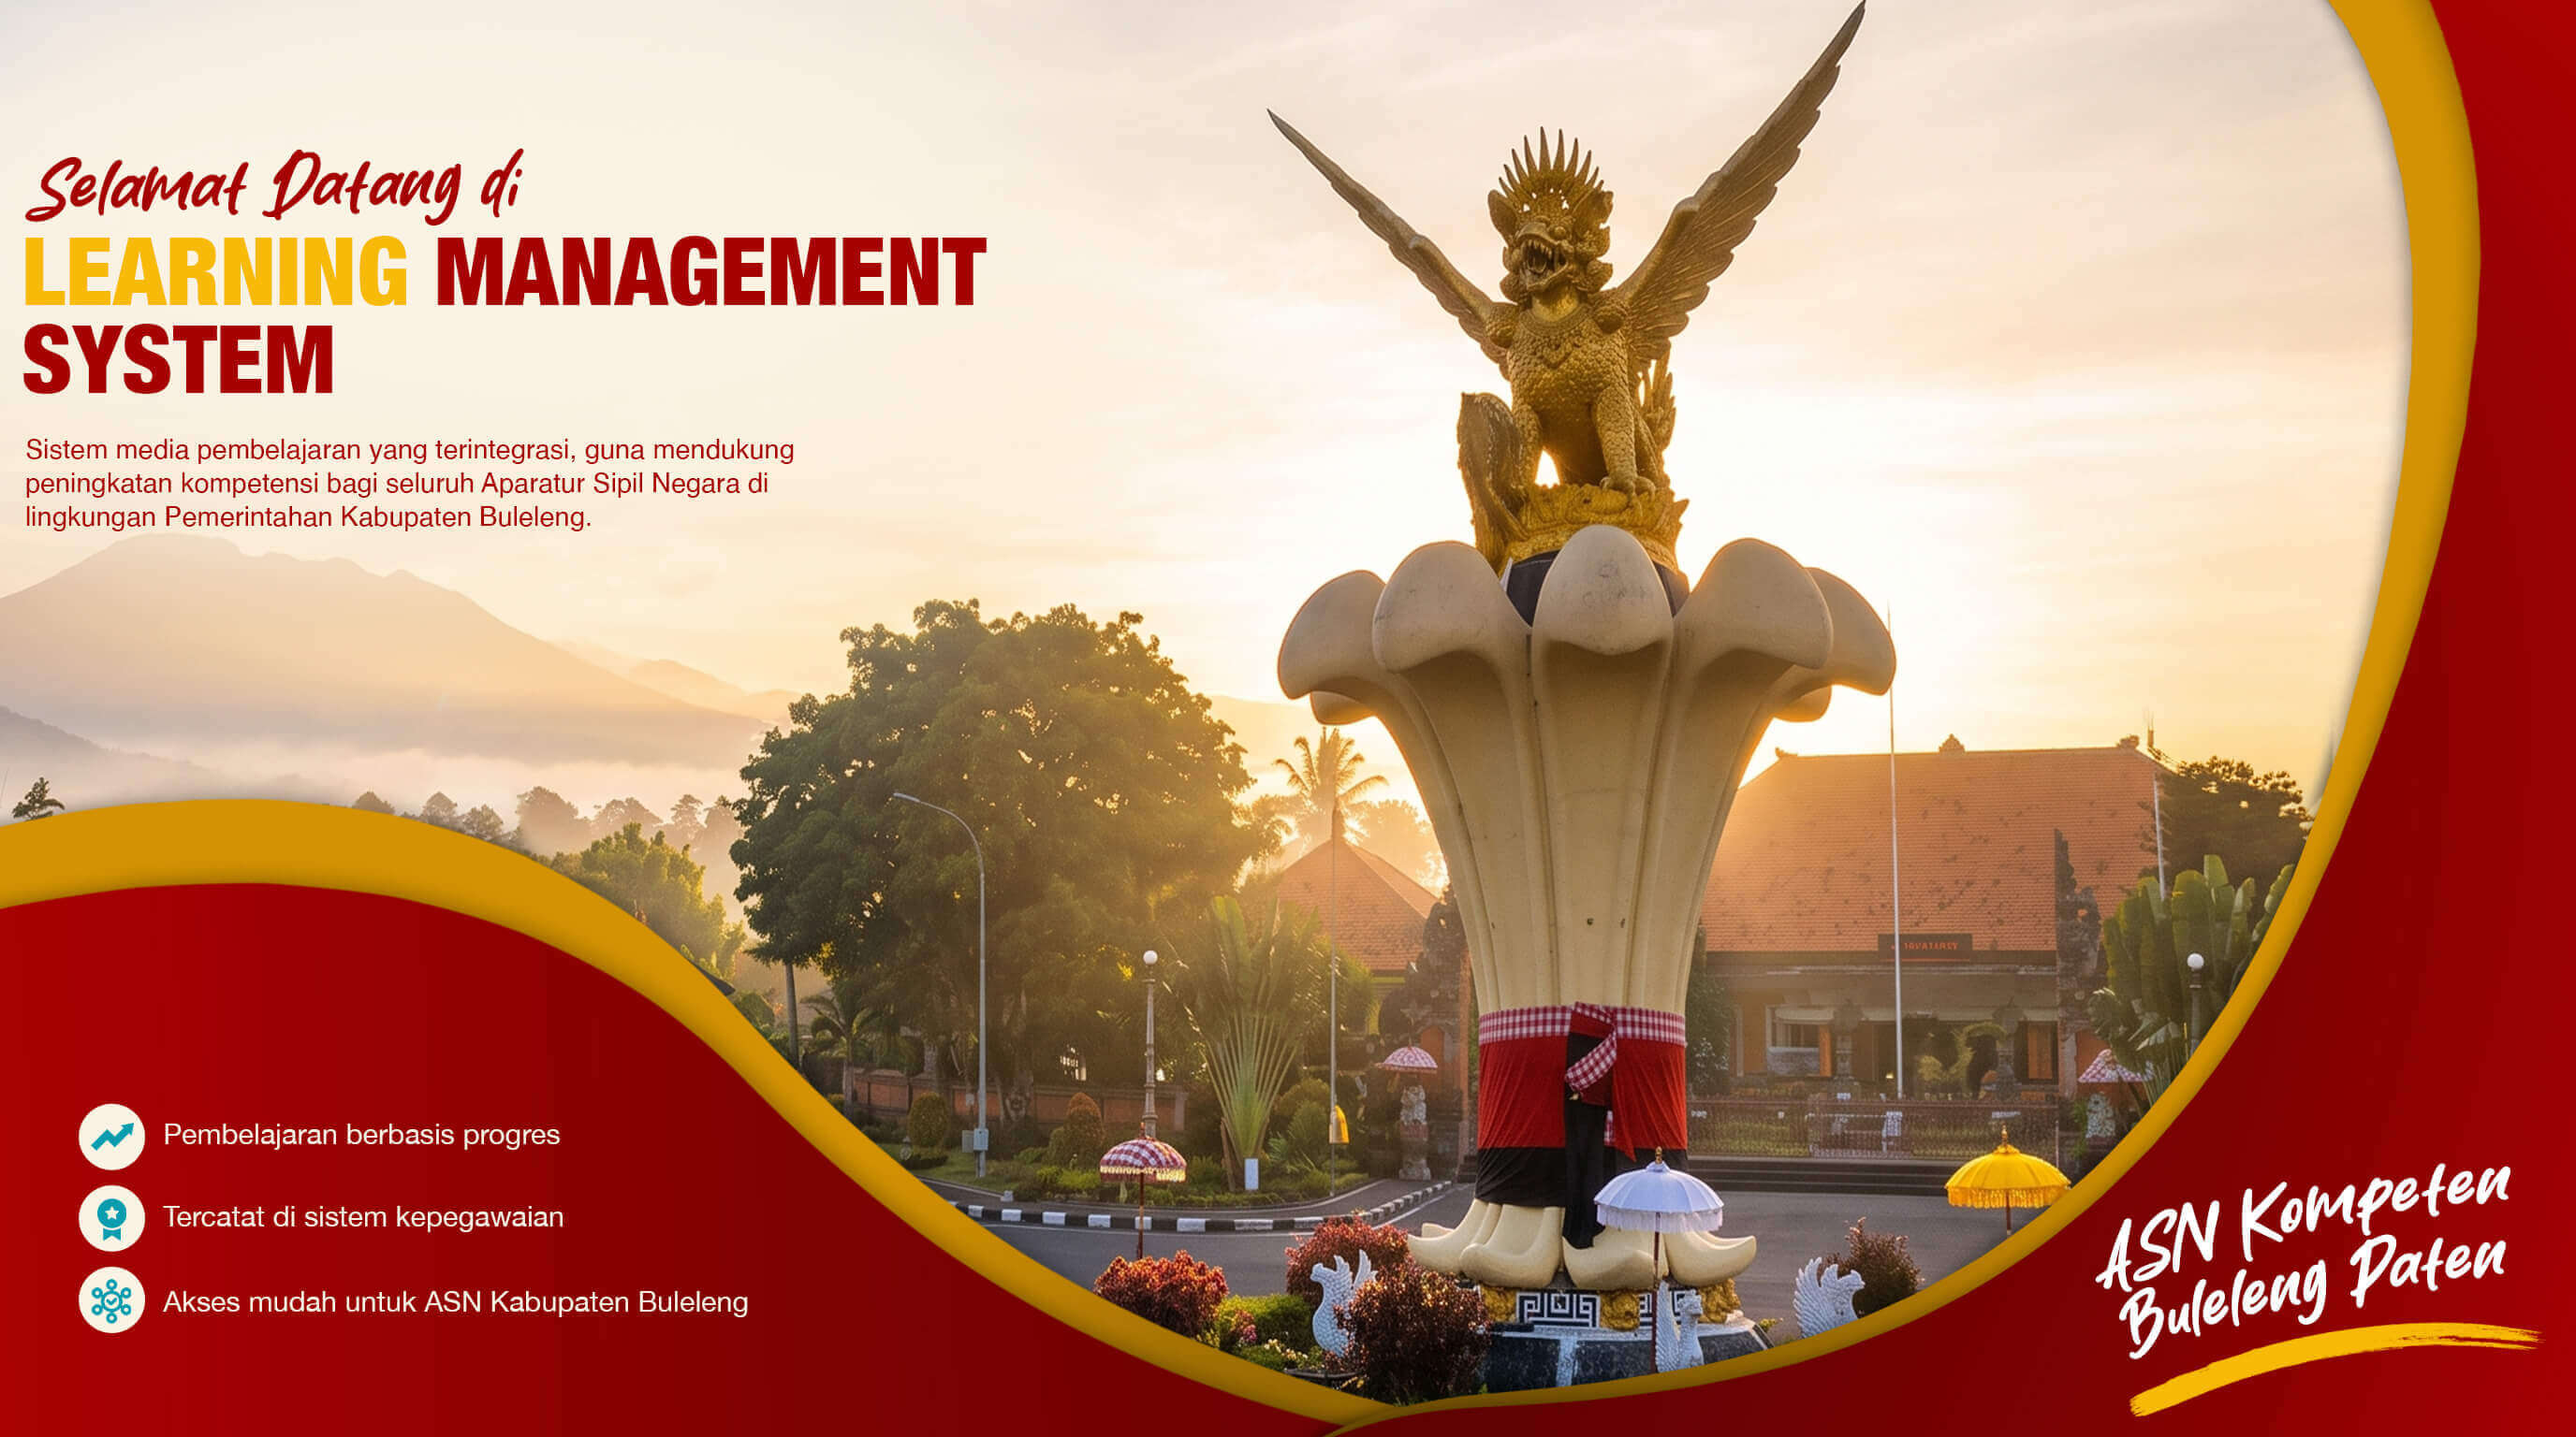
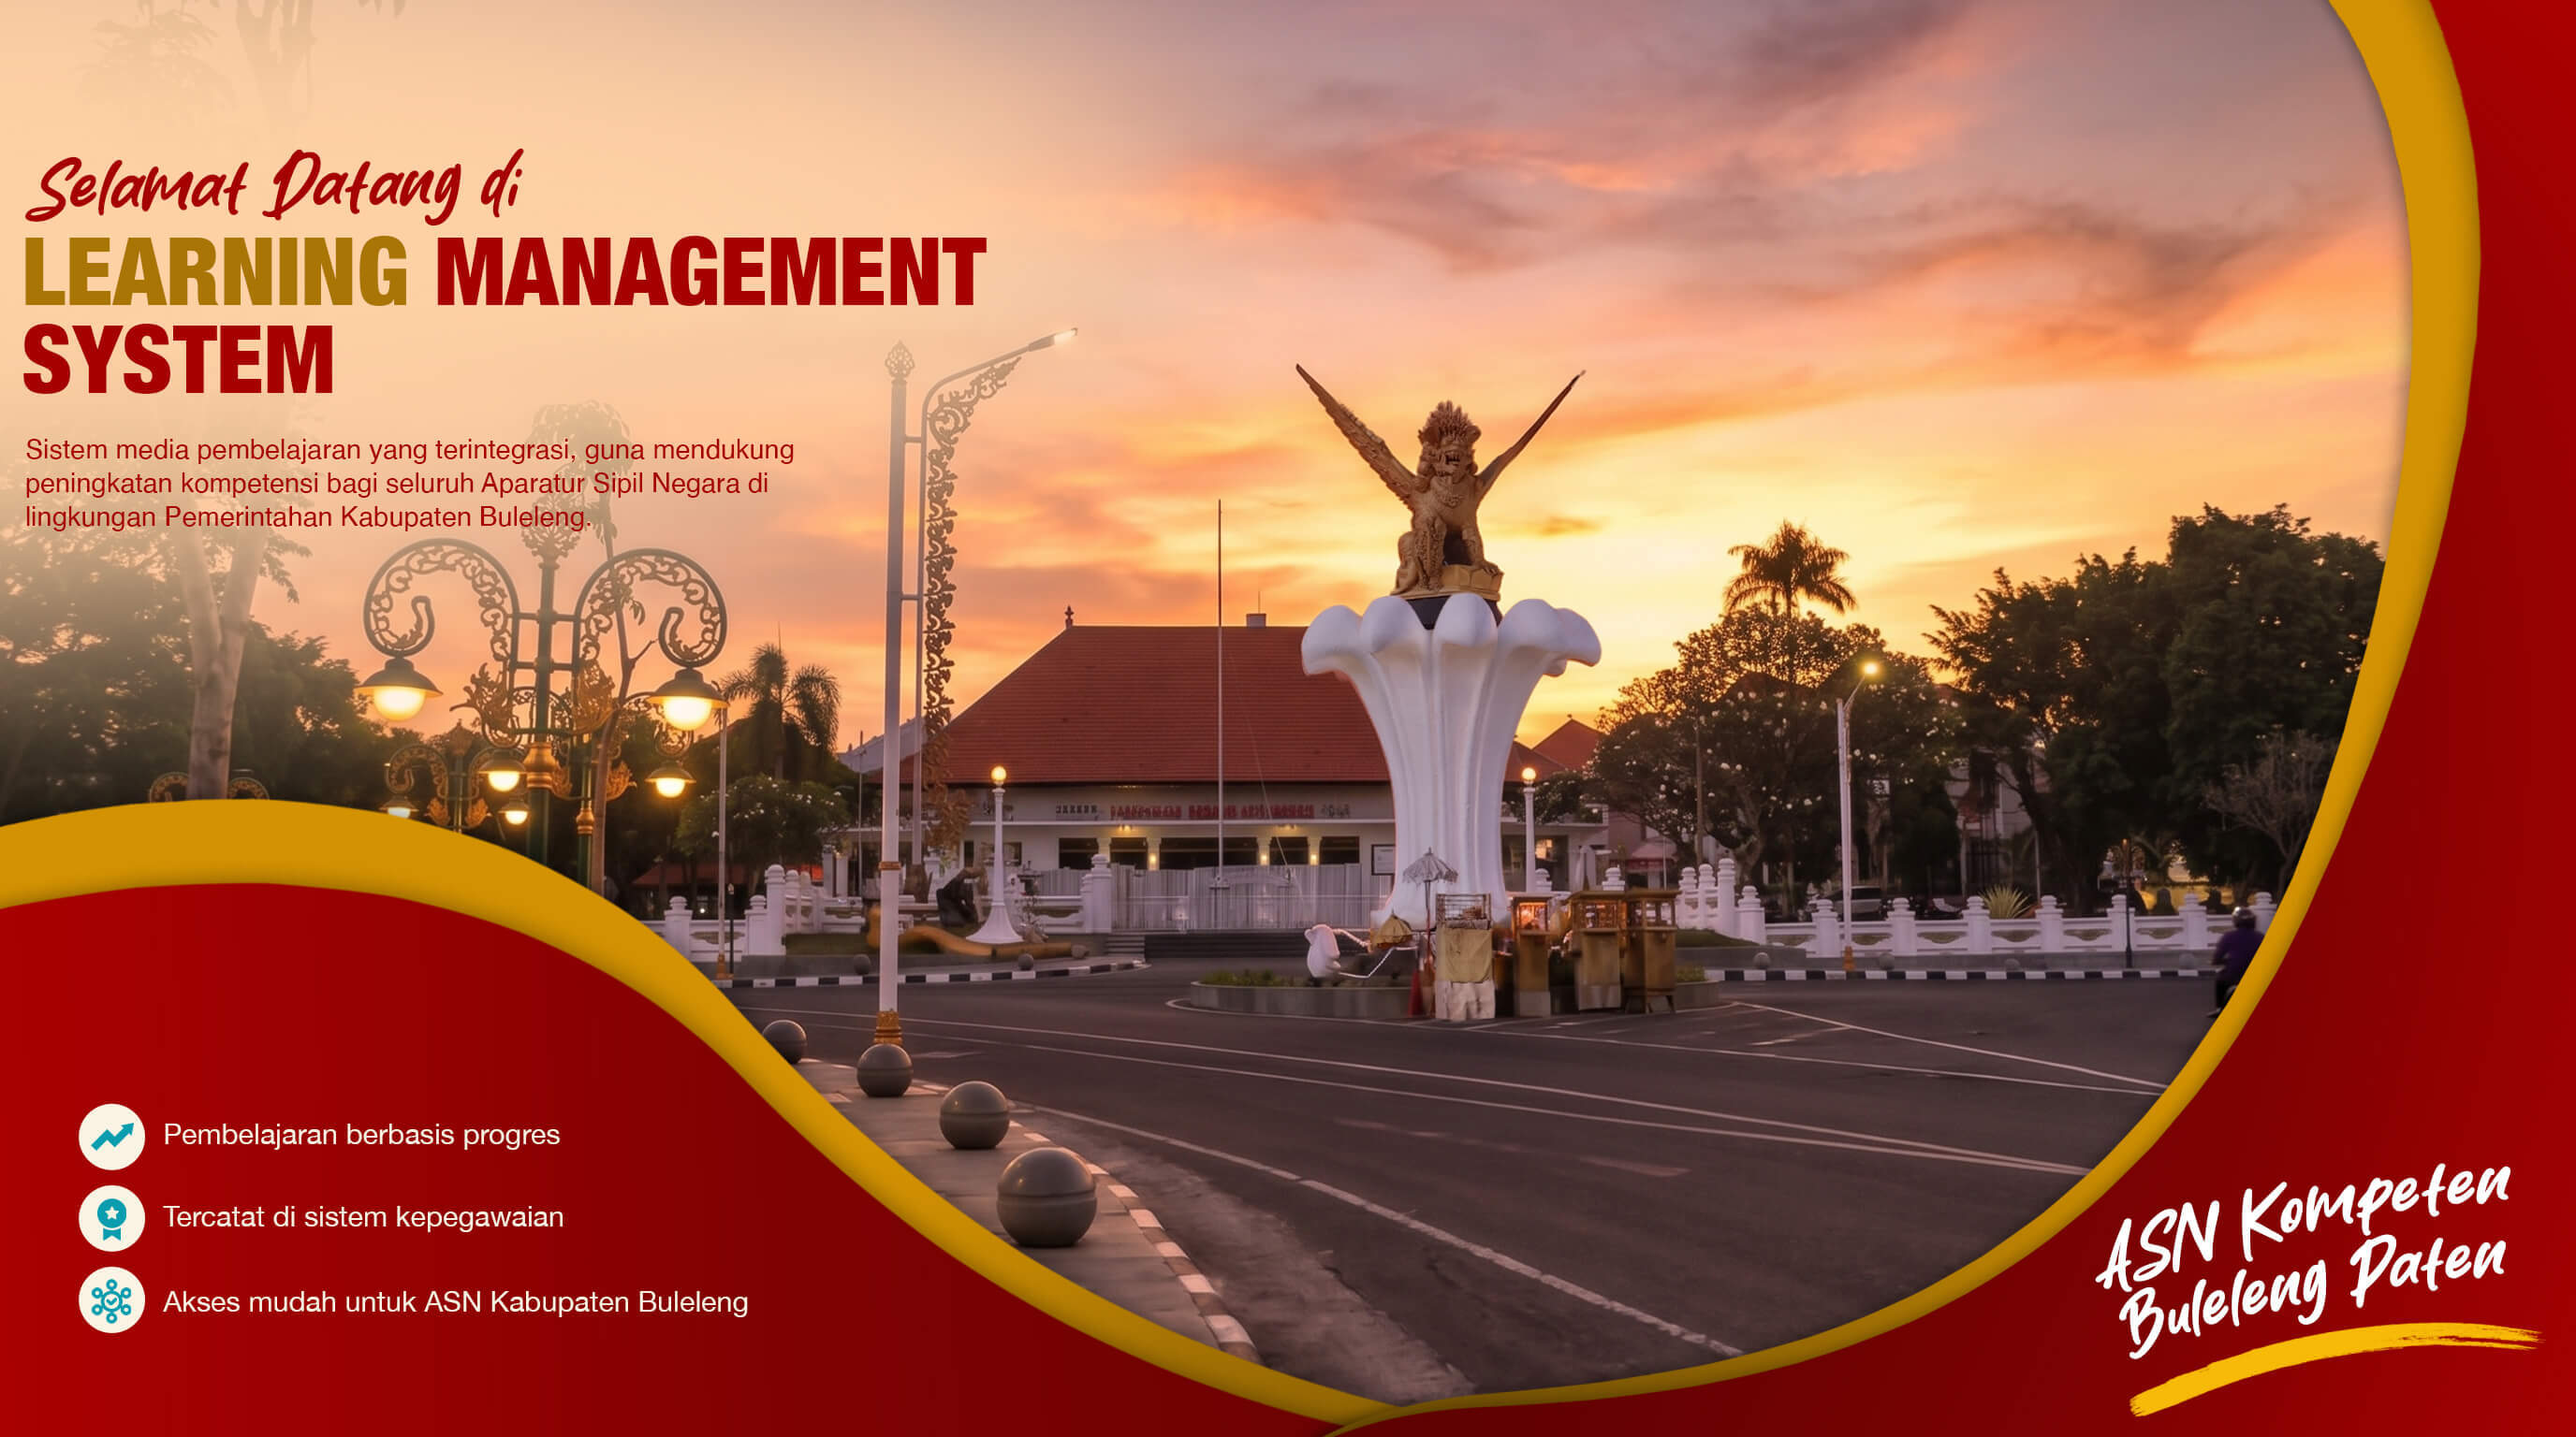
Landing page LMS FIX

diff --git a/src/pages/PortalPage.jsx b/src/pages/PortalPage.jsx
@@ -47,7 +47,7 @@ export default function PortalPage({ onNavigateLMS, onNavigate }) {
   };
 
   return (
-    <div className="w-full min-h-screen lg:h-screen lg:overflow-hidden relative flex flex-col font-['Inter'] bg-white select-none">
+    <div className="w-full min-h-0 lg:h-screen lg:overflow-hidden relative flex flex-col font-['Inter'] bg-white select-none">
       {/* Container Banner & Tombol */}
       <div className="w-full relative flex items-center justify-center lg:flex-1 lg:h-full lg:w-full lg:overflow-hidden bg-white">
         {/* Wrapper Banner yang menjaga proporsi gambar dan posisi logo */}
@@ -60,16 +60,16 @@ export default function PortalPage({ onNavigateLMS, onNavigate }) {
           />
 
           {/* LOGO DI POJOK KIRI ATAS BANNER (Tepat di atas tulisan "Selamat Datang di", tidak menutupi tulisan) */}
-          <div className="absolute top-2 sm:top-2.5 md:top-3 lg:top-3.5 xl:top-4 left-3 sm:left-4 md:left-5 lg:left-6 xl:left-8 z-30 flex items-center gap-1.5 sm:gap-2">
+          <div className="absolute top-1 sm:top-1.5 md:top-2.5 lg:top-3.5 xl:top-4 left-2.5 sm:left-3.5 md:left-5 lg:left-6 xl:left-8 z-30 flex items-center gap-1 sm:gap-1.5 lg:gap-2">
             <img 
               src={logoBkpsdm} 
               alt="Logo BKPSDM" 
-              className="h-5 sm:h-6 md:h-6.5 lg:h-7 xl:h-8 w-auto object-contain drop-shadow-sm hover:scale-105 transition-transform" 
+              className="h-3.5 sm:h-5 md:h-6 lg:h-7 xl:h-8 w-auto object-contain drop-shadow-xs hover:scale-105 transition-transform" 
             />
             <img 
               src={asnCorpuLogo} 
               alt="Logo ASN Corpu" 
-              className="h-5 sm:h-6 md:h-6.5 lg:h-7 xl:h-8 w-auto object-contain drop-shadow-sm hover:scale-105 transition-transform" 
+              className="h-3.5 sm:h-5 md:h-6 lg:h-7 xl:h-8 w-auto object-contain drop-shadow-xs hover:scale-105 transition-transform" 
             />
           </div>
 
@@ -169,9 +169,9 @@ export default function PortalPage({ onNavigateLMS, onNavigate }) {
       </div>
 
       {/* TAMPILAN MOBILE & IPAD/TABLET (< 1024px): Tombol tepat di bawah gambar tanpa celah berlebih, latar putih bersih */}
-      <div className="lg:hidden w-full bg-white px-4 sm:px-6 pt-2 pb-6 sm:pb-8">
+      <div className="lg:hidden w-full bg-white px-4 sm:px-6 pt-1.5 pb-4 sm:pb-6">
         <div className="w-full max-w-md sm:max-w-lg md:max-w-xl mx-auto">
-          <div className="text-center mb-3 sm:mb-4">
+          <div className="text-center mb-2.5 sm:mb-3.5">
             <h2 className="text-xs sm:text-sm font-bold text-slate-800 uppercase tracking-wider">
               PILIH LAYANAN SISTEM TERPADU
             </h2>
@@ -180,24 +180,24 @@ export default function PortalPage({ onNavigateLMS, onNavigate }) {
             </p>
           </div>
 
-          <div className="grid grid-cols-1 gap-2.5 sm:gap-3.5">
+          <div className="grid grid-cols-1 gap-2 sm:gap-3">
             {/* Mobile / Tablet HCDP */}
             <button
               type="button"
               onClick={handleHcdpClick}
-              className="group flex items-center justify-between p-3.5 sm:p-4 rounded-2xl bg-gradient-to-r from-[#0066EB] to-[#0047AB] text-white shadow-md hover:shadow-lg active:scale-98 transition-all duration-150 text-left cursor-pointer border border-blue-400/20"
+              className="group flex items-center justify-between py-2.5 px-3.5 sm:py-3.5 sm:px-4 rounded-xl sm:rounded-2xl bg-gradient-to-r from-[#0066EB] to-[#0047AB] text-white shadow-md hover:shadow-lg active:scale-98 transition-all duration-150 text-left cursor-pointer border border-blue-400/20"
             >
-              <div className="flex items-center gap-3 sm:gap-3.5">
-                <div className="w-10 h-10 sm:w-11 sm:h-11 rounded-xl bg-white/20 flex items-center justify-center shrink-0 shadow-inner">
-                  <Target className="w-5 h-5 sm:w-5.5 sm:h-5.5 text-white" />
+              <div className="flex items-center gap-2.5 sm:gap-3.5">
+                <div className="w-9 h-9 sm:w-11 sm:h-11 rounded-lg sm:rounded-xl bg-white/20 flex items-center justify-center shrink-0 shadow-inner">
+                  <Target className="w-4.5 h-4.5 sm:w-5.5 sm:h-5.5 text-white" />
                 </div>
                 <div>
-                  <div className="text-base sm:text-lg font-black text-white leading-none">HCDP</div>
-                  <div className="text-[11px] sm:text-xs text-blue-100 font-medium mt-1">Human Capital Development Plan</div>
+                  <div className="text-sm sm:text-lg font-black text-white leading-none">HCDP</div>
+                  <div className="text-[10px] sm:text-xs text-blue-100 font-medium mt-0.5 sm:mt-1">Human Capital Development Plan</div>
                 </div>
               </div>
-              <div className="w-7 h-7 sm:w-8 sm:h-8 rounded-full bg-white flex items-center justify-center shrink-0 shadow-sm group-hover:translate-x-0.5 transition-transform">
-                <ChevronRight className="w-4 h-4 sm:w-4.5 sm:h-4.5 text-[#0047AB] stroke-[3]" />
+              <div className="w-6 h-6 sm:w-8 sm:h-8 rounded-full bg-white flex items-center justify-center shrink-0 shadow-sm group-hover:translate-x-0.5 transition-transform">
+                <ChevronRight className="w-3.5 h-3.5 sm:w-4.5 sm:h-4.5 text-[#0047AB] stroke-[3]" />
               </div>
             </button>
 
@@ -205,19 +205,19 @@ export default function PortalPage({ onNavigateLMS, onNavigate }) {
             <button
               type="button"
               onClick={handleIdpClick}
-              className="group flex items-center justify-between p-3.5 sm:p-4 rounded-2xl bg-gradient-to-r from-[#C27C00] to-[#8C5800] text-white shadow-md hover:shadow-lg active:scale-98 transition-all duration-150 text-left cursor-pointer border border-amber-400/20"
+              className="group flex items-center justify-between py-2.5 px-3.5 sm:py-3.5 sm:px-4 rounded-xl sm:rounded-2xl bg-gradient-to-r from-[#C27C00] to-[#8C5800] text-white shadow-md hover:shadow-lg active:scale-98 transition-all duration-150 text-left cursor-pointer border border-amber-400/20"
             >
-              <div className="flex items-center gap-3 sm:gap-3.5">
-                <div className="w-10 h-10 sm:w-11 sm:h-11 rounded-xl bg-white/20 flex items-center justify-center shrink-0 shadow-inner">
-                  <UserCheck className="w-5 h-5 sm:w-5.5 sm:h-5.5 text-white" />
+              <div className="flex items-center gap-2.5 sm:gap-3.5">
+                <div className="w-9 h-9 sm:w-11 sm:h-11 rounded-xl bg-white/20 flex items-center justify-center shrink-0 shadow-inner">
+                  <UserCheck className="w-4.5 h-4.5 sm:w-5.5 sm:h-5.5 text-white" />
                 </div>
                 <div>
-                  <div className="text-base sm:text-lg font-black text-white leading-none">IDP</div>
-                  <div className="text-[11px] sm:text-xs text-amber-100 font-medium mt-1">Individual Development Plan</div>
+                  <div className="text-sm sm:text-lg font-black text-white leading-none">IDP</div>
+                  <div className="text-[10px] sm:text-xs text-amber-100 font-medium mt-0.5 sm:mt-1">Individual Development Plan</div>
                 </div>
               </div>
-              <div className="w-7 h-7 sm:w-8 sm:h-8 rounded-full bg-white flex items-center justify-center shrink-0 shadow-sm group-hover:translate-x-0.5 transition-transform">
-                <ChevronRight className="w-4 h-4 sm:w-4.5 sm:h-4.5 text-[#8C5800] stroke-[3]" />
+              <div className="w-6 h-6 sm:w-8 sm:h-8 rounded-full bg-white flex items-center justify-center shrink-0 shadow-sm group-hover:translate-x-0.5 transition-transform">
+                <ChevronRight className="w-3.5 h-3.5 sm:w-4.5 sm:h-4.5 text-[#8C5800] stroke-[3]" />
               </div>
             </button>
 
@@ -225,19 +225,19 @@ export default function PortalPage({ onNavigateLMS, onNavigate }) {
             <button
               type="button"
               onClick={onNavigateLMS}
-              className="group flex items-center justify-between p-3.5 sm:p-4 rounded-2xl bg-gradient-to-r from-[#00895D] to-[#005B3D] text-white shadow-md hover:shadow-lg active:scale-98 transition-all duration-150 text-left cursor-pointer border border-emerald-400/20"
+              className="group flex items-center justify-between py-2.5 px-3.5 sm:py-3.5 sm:px-4 rounded-xl sm:rounded-2xl bg-gradient-to-r from-[#00895D] to-[#005B3D] text-white shadow-md hover:shadow-lg active:scale-98 transition-all duration-150 text-left cursor-pointer border border-emerald-400/20"
             >
-              <div className="flex items-center gap-3 sm:gap-3.5">
-                <div className="w-10 h-10 sm:w-11 sm:h-11 rounded-xl bg-white/20 flex items-center justify-center shrink-0 shadow-inner">
-                  <MonitorPlay className="w-5 h-5 sm:w-5.5 sm:h-5.5 text-white" />
+              <div className="flex items-center gap-2.5 sm:gap-3.5">
+                <div className="w-9 h-9 sm:w-11 sm:h-11 rounded-xl bg-white/20 flex items-center justify-center shrink-0 shadow-inner">
+                  <MonitorPlay className="w-4.5 h-4.5 sm:w-5.5 sm:h-5.5 text-white" />
                 </div>
                 <div>
-                  <div className="text-base sm:text-lg font-black text-white leading-none">LMS</div>
-                  <div className="text-[11px] sm:text-xs text-emerald-100 font-medium mt-1">Learning Management System</div>
+                  <div className="text-sm sm:text-lg font-black text-white leading-none">LMS</div>
+                  <div className="text-[10px] sm:text-xs text-emerald-100 font-medium mt-0.5 sm:mt-1">Learning Management System</div>
                 </div>
               </div>
-              <div className="w-7 h-7 sm:w-8 sm:h-8 rounded-full bg-white flex items-center justify-center shrink-0 shadow-sm group-hover:translate-x-0.5 transition-transform">
-                <ChevronRight className="w-4 h-4 sm:w-4.5 sm:h-4.5 text-[#005B3D] stroke-[3]" />
+              <div className="w-6 h-6 sm:w-8 sm:h-8 rounded-full bg-white flex items-center justify-center shrink-0 shadow-sm group-hover:translate-x-0.5 transition-transform">
+                <ChevronRight className="w-3.5 h-3.5 sm:w-4.5 sm:h-4.5 text-[#005B3D] stroke-[3]" />
               </div>
             </button>
           </div>

diff --git a/src/pages/LandingPage/HeroSection.jsx b/src/pages/LandingPage/HeroSection.jsx
@@ -1,7 +1,7 @@
 import React from 'react';
 import heroImg from '../../assets/BG_BKPSDM.jpg';
 
-export default function HeroSection({ onAuthClick }) {
+export default function HeroSection() {
   return (
     <div className="relative w-full overflow-hidden select-none bg-white">
       {/* Gambar Hero Banner: Tampil Utuh 100% Tanpa Terpotong */}
@@ -11,26 +11,6 @@ export default function HeroSection({ onAuthClick }) {
           alt="Learning Management System BKPSDM"
           className="w-full h-auto block pointer-events-none"
         />
-
-        {/* Tampilan Desktop & Tablet (>= sm): Tombol Kaca Bening dengan Teks Warna #1D315F */}
-        <div className="hidden sm:block absolute top-[41%] sm:top-[42%] left-[3.5%] sm:left-[4%] z-20">
-          <button
-            onClick={onAuthClick}
-            className="group relative overflow-hidden bg-transparent hover:bg-white/[0.12] backdrop-blur-md border border-white/50 hover:border-white/80 text-[#1D315F] font-bold py-2 sm:py-2.5 md:py-3 lg:py-3.5 px-6 sm:px-7 md:px-9 lg:px-11 text-xs sm:text-sm md:text-base lg:text-lg rounded-full transition-all duration-200 shadow-sm hover:shadow-md hover:-translate-y-0.5 active:scale-95 cursor-pointer tracking-wide flex items-center justify-center"
-          >
-            <span className="relative z-10 text-[#1D315F] font-bold tracking-wide">Masuk Menggunakan NIP</span>
-          </button>
-        </div>
-      </div>
-
-      {/* Tampilan Mobile (< sm): Tombol bersih transparan teks #1D315F */}
-      <div className="sm:hidden w-full bg-white px-4 py-3.5 flex justify-center border-b border-gray-100 shadow-2xs">
-        <button
-          onClick={onAuthClick}
-          className="w-full max-w-xs bg-transparent hover:bg-gray-50 text-[#1D315F] font-bold py-2.5 px-6 text-sm rounded-full border border-gray-300 transition-all shadow-xs active:scale-95 cursor-pointer text-center tracking-wide"
-        >
-          Masuk Menggunakan NIP
-        </button>
       </div>
     </div>
   );
